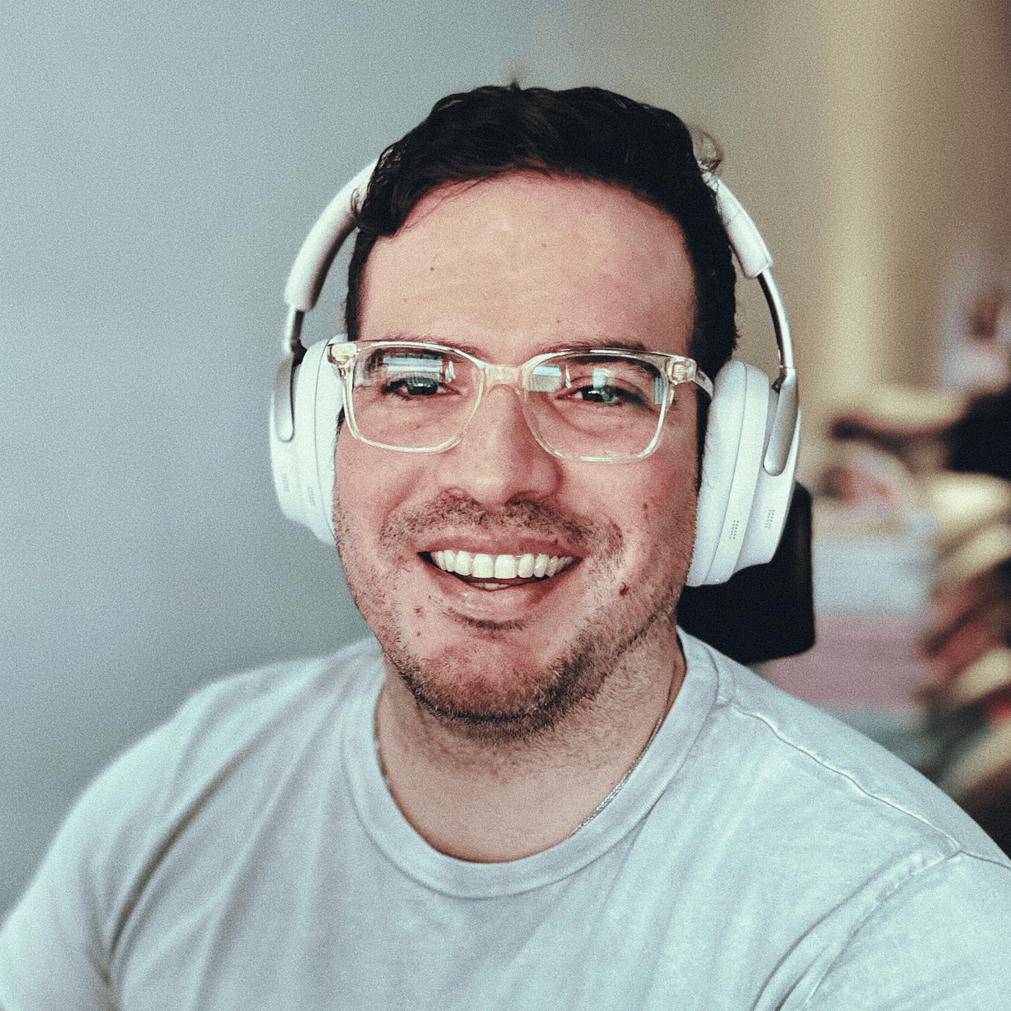
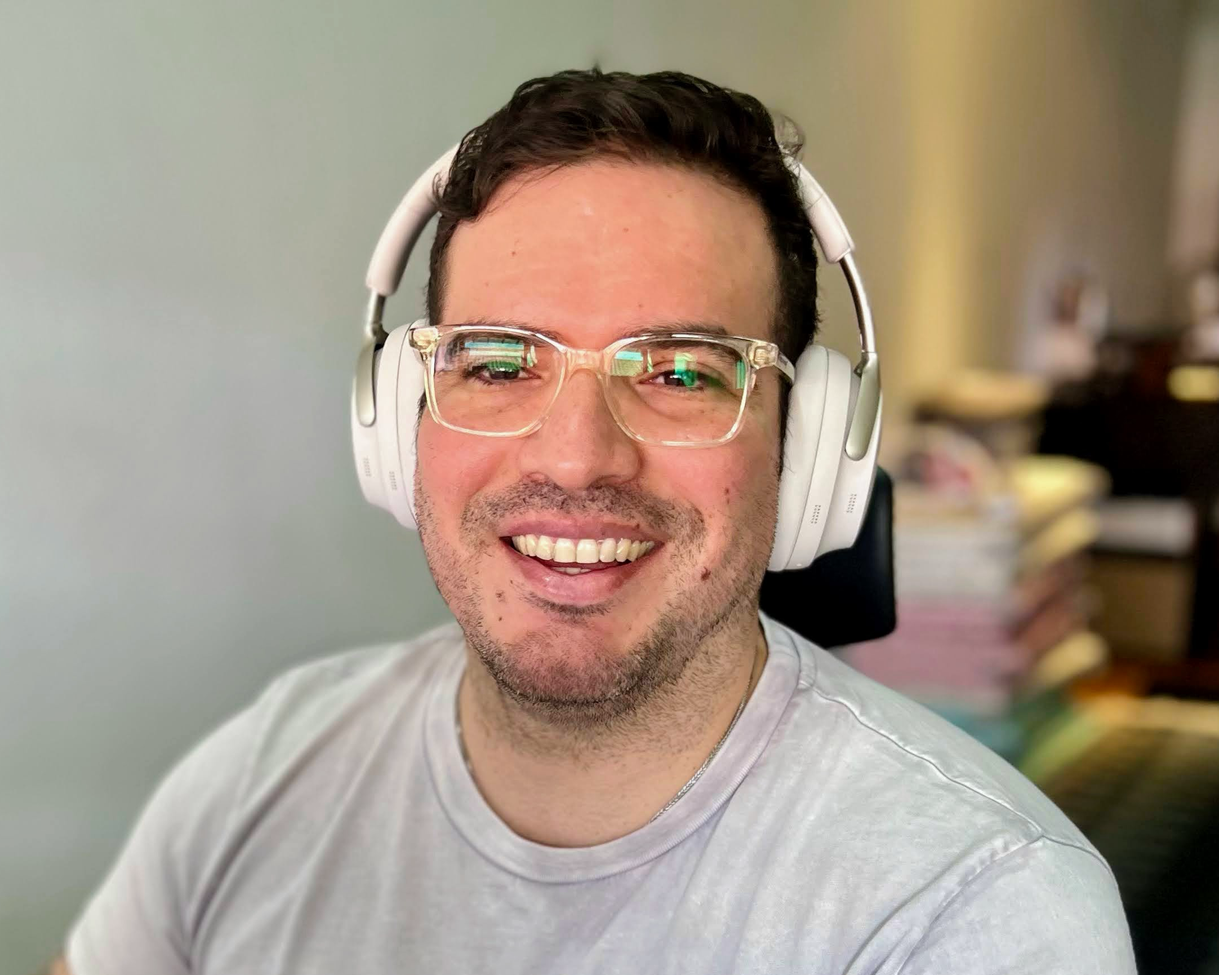
work on colours

diff --git a/web/src/partials/FooterPartial.vue b/web/src/partials/FooterPartial.vue
@@ -1,58 +1,41 @@
 <template>
-	<footer class="border-t border-slate-200 dark:border-slate-800">
-		<div class="py-8">
-			<div class="text-center md:flex md:items-center md:justify-between">
-				<!-- Social links -->
-				<ul class="inline-flex mb-4 md:order-1 md:ml-4 md:mb-0 space-x-2">
-					<li>
-						<a class="flex justify-center items-center text-sky-500 hover:text-sky-600 transition duration-150 ease-in-out" href="https://x.com/gocanto" aria-label="X">
-							<svg class="w-8 h-8 fill-current" viewBox="0 0 32 32" xmlns="http://www.w3.org/2000/svg">
-								<path d="m13.063 9 3.495 4.475L20.601 9h2.454l-5.359 5.931L24 23h-4.938l-3.866-4.893L10.771 23H8.316l5.735-6.342L8 9h5.063Zm-.74 1.347h-1.457l8.875 11.232h1.36l-8.778-11.232Z"></path>
-							</svg>
-						</a>
-					</li>
+    <footer class="border-t border-slate-200 dark:border-slate-800">
+        <div class="py-8">
+            <div class="text-center md:flex md:items-center md:justify-between">
+                <ul class="inline-flex mb-4 md:order-1 md:ml-4 md:mb-0 space-x-2">
+                    <li @click="openX()" class="blog-footer-social-li">
+                        <a @click.prevent="openX()" class="text-white" href="#" aria-label="X">
+                            <svg class="fill-current h-5 w-5" fill="currentColor" xmlns="http://www.w3.org/2000/svg" viewBox="0 0 1200 1227">
+                                <path d="M714.163 519.284 1160.89 0h-105.86L667.137 450.887 357.328 0H0l468.492 681.821L0 1226.37h105.866l409.625-476.152 327.181 476.152H1200L714.137 519.284h.026ZM569.165 687.828l-47.468-67.894-377.686-540.24h162.604l304.797 435.991 47.468 67.894 396.2 566.721H892.476L569.165 687.854v-.026Z"/>
+                            </svg>
+                        </a>
+                    </li>
 
-					<li>
-						<a class="flex justify-center items-center text-sky-500 hover:text-sky-600 transition duration-150 ease-in-out" href="https://www.youtube.com/@gocanto" aria-label="YouTube">
-							<svg class="w-8 h-8 fill-current" viewBox="0 0 32 32" xmlns="http://www.w3.org/2000/svg">
-								<path
-									d="M23.8 12.8c-.2-1.3-.8-2.2-2.2-2.4C19.4 10 16 10 16 10s-3.4 0-5.6.4c-1.4.2-2.1 1.1-2.2 2.4C8 14.1 8 16 8 16s0 1.9.2 3.2c.2 1.3.8 2.2 2.2 2.4 2.2.4 5.6.4 5.6.4s3.4 0 5.6-.4c1.4-.3 2-1.1 2.2-2.4.2-1.3.2-3.2.2-3.2s0-1.9-.2-3.2ZM14 19v-6l5 3-5 3Z"
-								></path>
-							</svg>
-						</a>
-					</li>
+                    <li @click="openGitHub()" class="blog-footer-social-li">
+                        <a @click.prevent="openGitHub" class="text-white" href="#" aria-label="Github">
+                            <svg class="fill-current h-5 w-5" fill="currentColor" viewBox="0 0 1024 1024" xmlns="http://www.w3.org/2000/svg">
+                                <path fill-rule="evenodd" clip-rule="evenodd" d="M8 0C3.58 0 0 3.58 0 8C0 11.54 2.29 14.53 5.47 15.59C5.87 15.66 6.02 15.42 6.02 15.21C6.02 15.02 6.01 14.39 6.01 13.72C4 14.09 3.48 13.23 3.32 12.78C3.23 12.55 2.84 11.84 2.5 11.65C2.22 11.5 1.82 11.13 2.49 11.12C3.12 11.11 3.57 11.7 3.72 11.94C4.44 13.15 5.59 12.81 6.05 12.6C6.12 12.08 6.33 11.73 6.56 11.53C4.78 11.33 2.92 10.64 2.92 7.58C2.92 6.71 3.23 5.99 3.74 5.43C3.66 5.23 3.38 4.41 3.82 3.31C3.82 3.31 4.49 3.1 6.02 4.13C6.66 3.95 7.34 3.86 8.02 3.86C8.7 3.86 9.38 3.95 10.02 4.13C11.55 3.09 12.22 3.31 12.22 3.31C12.66 4.41 12.38 5.23 12.3 5.43C12.81 5.99 13.12 6.7 13.12 7.58C13.12 10.65 11.25 11.33 9.47 11.53C9.76 11.78 10.01 12.26 10.01 13.01C10.01 14.08 10 14.94 10 15.21C10 15.42 10.15 15.67 10.55 15.59C13.71 14.53 16 11.53 16 8C16 3.58 12.42 0 8 0Z" transform="scale(64)"/>
+                            </svg>
+                        </a>
+                    </li>
 
-					<li>
-						<a class="flex justify-center items-center text-sky-500 hover:text-sky-600 transition duration-150 ease-in-out" href="https://github.com/gocanto" aria-label="Github">
-							<svg class="w-8 h-8 fill-current" viewBox="0 0 32 32" xmlns="http://www.w3.org/2000/svg">
-								<path
-									d="M16 8.2c-4.4 0-8 3.6-8 8 0 3.5 2.3 6.5 5.5 7.6.4.1.5-.2.5-.4V22c-2.2.5-2.7-1-2.7-1-.4-.9-.9-1.2-.9-1.2-.7-.5.1-.5.1-.5.8.1 1.2.8 1.2.8.7 1.3 1.9.9 2.3.7.1-.5.3-.9.5-1.1-1.8-.2-3.6-.9-3.6-4 0-.9.3-1.6.8-2.1-.1-.2-.4-1 .1-2.1 0 0 .7-.2 2.2.8.6-.2 1.3-.3 2-.3s1.4.1 2 .3c1.5-1 2.2-.8 2.2-.8.4 1.1.2 1.9.1 2.1.5.6.8 1.3.8 2.1 0 3.1-1.9 3.7-3.7 3.9.3.4.6.9.6 1.6v2.2c0 .2.1.5.6.4 3.2-1.1 5.5-4.1 5.5-7.6-.1-4.4-3.7-8-8.1-8z"
-								></path>
-							</svg>
-						</a>
-					</li>
+                    <li @click="openLinkedIn()" class="blog-footer-social-li">
+                        <a @click.prevent="openLinkedIn()" class="text-white" href="#" aria-label="LinkedIn">
+                            <svg class="fill-current h-5 w-5" xmlns="http://www.w3.org/2000/svg" preserveAspectRatio="xMidYMid" viewBox="0 0 256 256"><path d="M218.123 218.127h-37.931v-59.403c0-14.165-.253-32.4-19.728-32.4-19.756 0-22.779 15.434-22.779 31.369v60.43h-37.93V95.967h36.413v16.694h.51a39.907 39.907 0 0 1 35.928-19.733c38.445 0 45.533 25.288 45.533 58.186l-.016 67.013ZM56.955 79.27c-12.157.002-22.014-9.852-22.016-22.009-.002-12.157 9.851-22.014 22.008-22.016 12.157-.003 22.014 9.851 22.016 22.008A22.013 22.013 0 0 1 56.955 79.27m18.966 138.858H37.95V95.967h37.97v122.16ZM237.033.018H18.89C8.58-.098.125 8.161-.001 18.471v219.053c.122 10.315 8.576 18.582 18.89 18.474h218.144c10.336.128 18.823-8.139 18.966-18.474V18.454c-.147-10.33-8.635-18.588-18.966-18.453" fill="currentColor"/></svg>
+                        </a>
+                    </li>
+                </ul>
 
-					<li>
-						<a class="flex justify-center items-center text-sky-500 hover:text-sky-600 transition duration-150 ease-in-out" href="https://www.linkedin.com/in/gocanto/" aria-label="LinkedIn">
-							<svg class="w-8 h-10 fill-current" viewBox="0 0 32 32" xmlns="http://www.w3.org/2000/svg">
-								<path
-									d="M12.51 8.796v1.697a3.738 3.738 0 0 1 3.288-1.684c3.455 0 4.202 2.16 4.202 4.97V19.5h-3.2v-5.072c0-1.21-.244-2.766-2.128-2.766-1.827 0-2.139 1.317-2.139 2.676V19.5h-3.19V8.796h3.168ZM7.2 6.106a1.61 1.61 0 0 1-.988 1.483 1.595 1.595 0 0 1-1.743-.348A1.607 1.607 0 0 1 5.6 4.5a1.601 1.601 0 0 1 1.6 1.606Z"
-								/>
-								<path d="M7.2 8.809H4V19.5h3.2V8.809Z" />
-							</svg>
-						</a>
-					</li>
-				</ul>
-
-				<!-- Copyright -->
-				<div class="text-sm text-slate-500 dark:text-slate-400">Copyright &copy; gocanto. All rights reserved.</div>
-			</div>
-		</div>
-	</footer>
+                <div class="text-sm text-slate-500 dark:text-slate-400">Copyright &copy; gocanto. All rights reserved.</div>
+            </div>
+        </div>
+    </footer>
 </template>
 
-<script>
-export default {
-	name: 'FooterPartial',
-};
+<script setup lang="ts">
+const openSocial = (link: string): Window | null => window.open(link, '_blank');
+
+const openX = (): Window | null => openSocial('https://x.com/gocanto')
+const openGitHub = (): Window | null => openSocial('https://github.com/gocanto')
+const openLinkedIn = (): Window | null => openSocial('https://www.linkedin.com/in/gocanto/');
 </script>

diff --git a/web/src/pages/AboutPage.vue b/web/src/pages/AboutPage.vue
@@ -15,14 +15,12 @@
 							<div class="max-w-[700px]">
 								<section>
 									<!-- Page title -->
-									<h2 class="h2 font-aspekta mb-5">
+									<h1 class="h1 blog-h1">
 										Hi. I'm {{ user.profile.nickname }}
-										<span
-											class="inline-flex relative text-sky-500 before:absolute before:inset-0 before:bg-sky-200 dark:before:bg-sky-500 before:opacity-30 before:-z-10 before:-rotate-2 before:translate-y-1/4"
-										>
+										<span class="blog-fun-title-word-highlight">
 											<a :href="user.social.x.url" :title="user.social.x.title" target="_blank">{{ user.social.x.handle }}</a>
 										</span>
-									</h2>
+									</h1>
 
 									<img class="rounded-lg w-full mb-5" :src="aboutPicture" alt="About" />
 
@@ -40,14 +38,14 @@
 													in software development, workplace technology, and infrastructure management.
 												</span>
 												<span class="block mt-5">
-													I specialize in Golang, Node.js, TypeScript, and PHP. I am also proficient in Laravel, Symfony, and modern web frameworks like Next.Js. Furthermore, I have led teams
-													designing and implementing scalable, high-performance systems, ensuring reliability and efficiency across complex technical environments.
+													I specialize in Golang, Node.js, TypeScript, and PHP. I am also proficient in Laravel, Symfony, and modern web frameworks like Next.Js. Furthermore, I have led teams designing and
+													implementing scalable, high-performance systems, ensuring reliability and efficiency across complex technical environments.
 												</span>
 											</p>
 											<p class="block mb-3">
-												Beyond technical expertise, I have a strong <a class="blog-link" :href="user.social.linkedin.url" target="_blank">leadership background</a> in managing cross-functional teams,
-												optimizing workflows, and implementing best practices that drive productivity and innovation. I thrive in fast-paced environments that demand strategic thinking,
-												problem-solving, and a commitment to delivering high-quality results.
+												Beyond technical expertise, I have a strong <a class="blog-link" :href="user.social.linkedin.url" target="_blank">leadership background</a> in managing cross-functional teams, optimizing
+												workflows, and implementing best practices that drive productivity and innovation. I thrive in fast-paced environments that demand strategic thinking, problem-solving, and a commitment to
+												delivering high-quality results.
 											</p>
 										</div>
 
@@ -57,8 +55,7 @@
 											<h2 class="h3 font-aspekta text-slate-800 dark:text-slate-100">Let's Connect</h2>
 											<p>
 												I’m excited to connect by <a class="blog-link" title="follow me on x" :href="`mailto:${user.profile.email}`">email</a> or
-												<a class="blog-link" target="_blank" :href="user.social.x">X</a> to chat about projects and ideas. I’m always open to freelance or long-term projects, so please feel free to
-												reach out.
+												<a class="blog-link" target="_blank" :href="user.social.x">X</a> to chat about projects and ideas. I’m always open to freelance or long-term projects, so please feel free to reach out.
 											</p>
 											<p>Tell me about your vision, and if it seems like a good fit, we can explore collaborating down the road.</p>
 										</div>

diff --git a/web/src/partials/SideNavPartial.vue b/web/src/partials/SideNavPartial.vue
@@ -18,10 +18,10 @@
 								<a
                                     :class="
 										applyClassIf(['/about', '/subscribe', '/projects', '/resume'])
-											? 'blog-router-link-a-active'
-											: 'blog-router-link-a-resting'
+											? 'blog-side-nav-router-link-a-active'
+											: 'blog-side-nav-router-link-a-resting'
 									"
-                                    class="h6 blog-router-link-a"
+                                    class="h6 blog-side-nav-router-link-a"
 									:href="href"
 									@click="navigate"
 								>
@@ -38,7 +38,7 @@
 						<li class="py-2">
 							<router-link v-slot="{ href, navigate, isExactActive }" to="/about" custom>
 								<a
-									class="h6 blog-router-link-a"
+									class="h6 blog-side-nav-router-link-a"
 									:class="bindIconClassFor(isExactActive)"
 									:href="href"
 									@click="navigate"
@@ -56,7 +56,7 @@
 						<li class="py-2">
 							<router-link v-slot="{ href, navigate, isExactActive }" to="/projects" custom>
 								<a
-									class="h6 blog-router-link-a"
+									class="h6 blog-side-nav-router-link-a"
 									:class="bindIconClassFor(isExactActive)"
 									:href="href"
 									@click="navigate"
@@ -74,7 +74,7 @@
 						<li class="py-2">
 							<router-link v-slot="{ href, navigate, isExactActive }" to="/resume" custom>
 								<a
-									class="h6 blog-router-link-a"
+									class="h6 blog-side-nav-router-link-a"
 									:class="bindIconClassFor(isExactActive)"
 									:href="href"
 									@click="navigate"
@@ -92,7 +92,7 @@
 						<li class="py-2">
 							<router-link v-slot="{ href, navigate, isExactActive }" to="/subscribe" custom>
 								<a
-									class="h6 blog-router-link-a"
+									class="h6 blog-side-nav-router-link-a"
 									:class="bindIconClassFor(isExactActive)"
 									:href="href"
 									@click="navigate"
@@ -130,7 +130,7 @@ const isHome = computed<boolean>(() => {
 });
 
 function applyClassIf (constraint: string[]): boolean {
-    if (isHome) {
+    if (isHome.value) {
         return true;
     }
 
@@ -141,7 +141,7 @@ function applyClassIf (constraint: string[]): boolean {
 
 function bindIconClassFor (isActive: boolean): string {
     return isActive
-        ? 'blog-router-link-a-active'
-        : 'blog-router-link-a-resting';
+        ? 'blog-side-nav-router-link-a-active'
+        : 'blog-side-nav-router-link-a-resting';
 }
 </script>

diff --git a/web/src/partials/HeaderPartial.vue b/web/src/partials/HeaderPartial.vue
@@ -12,7 +12,7 @@
 								<div class="absolute inset-0 right-auto flex items-center justify-center">
 									<svg class="w-4 h-4 shrink-0 mx-3" viewBox="0 0 16 16" xmlns="http://www.w3.org/2000/svg">
 										<path
-											class="fill-indigo-400"
+											class="fill-fuchsia-400"
 											d="M7 14c-3.86 0-7-3.14-7-7s3.14-7 7-7 7 3.14 7 7-3.14 7-7 7zM7 2C4.243 2 2 4.243 2 7s2.243 5 5 5 5-2.243 5-5-2.243-5-5-5zm8.707 12.293a.999.999 0 11-1.414 1.414L11.9 13.314a8.019 8.019 0 001.414-1.414l2.393 2.393z"
 										></path>
 									</svg>
@@ -28,25 +28,20 @@
 					<label class="relative cursor-pointer p-2" for="light-switch">
 						<svg class="dark:hidden" width="16" height="16" xmlns="http://www.w3.org/2000/svg">
 							<path
-								class="fill-indigo-300"
+								class="fill-fuchsia-300 hover:fill-fuchsia-500"
 								d="M7 0h2v2H7zM12.88 1.637l1.414 1.415-1.415 1.413-1.413-1.414zM14 7h2v2h-2zM12.95 14.433l-1.414-1.413 1.413-1.415 1.415 1.414zM7 14h2v2H7zM2.98 14.364l-1.413-1.415 1.414-1.414 1.414 1.415zM0 7h2v2H0zM3.05 1.706 4.463 3.12 3.05 4.535 1.636 3.12z"
 							/>
-							<path class="fill-indigo-400" d="M8 4C5.8 4 4 5.8 4 8s1.8 4 4 4 4-1.8 4-4-1.8-4-4-4Z" />
+							<path class="fill-fuchsia-400 hover:fill-fuchsia-500" d="M8 4C5.8 4 4 5.8 4 8s1.8 4 4 4 4-1.8 4-4-1.8-4-4-4Z" />
 						</svg>
 						<svg class="hidden dark:block" width="16" height="16" xmlns="http://www.w3.org/2000/svg">
-							<path class="fill-indigo-400" d="M6.2 1C3.2 1.8 1 4.6 1 7.9 1 11.8 4.2 15 8.1 15c3.3 0 6-2.2 6.9-5.2C9.7 11.2 4.8 6.3 6.2 1Z" />
+							<path class="fill-fuchsia-400 hover:fill-fuchsia-200" d="M6.2 1C3.2 1.8 1 4.6 1 7.9 1 11.8 4.2 15 8.1 15c3.3 0 6-2.2 6.9-5.2C9.7 11.2 4.8 6.3 6.2 1Z" />
 							<path
-								class="fill-indigo-500"
+								class="fill-fuchsia-500 hover:fill-fuchsia-200"
 								d="M12.5 5a.625.625 0 0 1-.625-.625 1.252 1.252 0 0 0-1.25-1.25.625.625 0 1 1 0-1.25 1.252 1.252 0 0 0 1.25-1.25.625.625 0 1 1 1.25 0c.001.69.56 1.249 1.25 1.25a.625.625 0 1 1 0 1.25c-.69.001-1.249.56-1.25 1.25A.625.625 0 0 1 12.5 5Z"
 							/>
 						</svg>
 						<span class="sr-only">Switch to light / dark version</span>
 					</label>
-				</div>
-
-				<!-- Button -->
-				<div>
-					<router-link class="btn-sm text-indigo-100 bg-sky-500 hover:bg-sky-600" to="/subscribe">Subscribe</router-link>
 				</div>
 			</div>
 		</div>

diff --git a/web/src/css/support/blog.css b/web/src/css/support/blog.css
@@ -9,17 +9,37 @@
     @apply text-slate-700 dark:text-slate-300;
 }
 
-.blog-router-link-a {
+.blog-h1 {
+    @apply font-aspekta mb-5 mt-5;
+    @apply text-slate-700 dark:text-slate-300;
+}
+
+.blog-fun-title-word-highlight {
+    @apply inline-flex relative text-fuchsia-500 dark:text-fuchsia-400 before:absolute before:inset-0;
+    @apply before:bg-sky-200 dark:before:bg-sky-500 before:opacity-30 before:-z-10 before:-rotate-2;
+    @apply before:translate-y-1/4;
+}
+
+/* --- side nav --- */
+.blog-side-nav-router-link-a {
     @apply w-full flex items-center justify-center relative after:absolute after:w-0.5;
     @apply after:right-0 after:top-0 after:bottom-0;
 }
 
-.blog-router-link-a-resting {
-    @apply text-slate-400 hover:text-indigo-500;
-    @apply dark:text-slate-500 dark:hover:text-indigo-500;
+.blog-side-nav-router-link-a-resting {
+    @apply text-slate-400 hover:text-fuchsia-500;
+    @apply dark:text-slate-500 dark:hover:text-fuchsia-500;
 }
 
-.blog-router-link-a-active {
-    @apply text-indigo-500 after:bg-indigo-500 hover:text-indigo-400 hover:after:bg-indigo-400;
+.blog-side-nav-router-link-a-active {
+    @apply text-fuchsia-500 after:bg-fuchsia-500 hover:text-fuchsia-400 hover:after:bg-fuchsia-400;
     @apply dark:hover:text-slate-400;
+}
+
+/* --- footer --- */
+.blog-footer-social-li {
+    @apply flex justify-center items-center h-10 w-10 bg-gray-400 border border-gray-400 rounded-md;
+    @apply transition duration-150 ease-in-out hover:bg-fuchsia-400 hover:border-fuchsia-400 cursor-pointer;
+    @apply dark:bg-linear-to-t dark:bg-slate-900 dark:border-slate-800 dark:from-slate-800 dark:to-slate-800/30;
+    @apply dark:hover:bg-linear-to-b;
 }

diff --git a/web/src/css/style.css b/web/src/css/style.css
@@ -73,4 +73,16 @@
 	--tracking-wide: 0.01em;
 	--tracking-wider: 0.02em;
 	--tracking-widest: 0.4em;
+
+    --color-fuchsia-50: oklch(0.977 0.017 320.058);
+    --color-fuchsia-100: oklch(0.952 0.037 318.852);
+    --color-fuchsia-200: oklch(0.903 0.076 319.62);
+    --color-fuchsia-300: oklch(0.833 0.145 321.434);
+    --color-fuchsia-400: oklch(0.74 0.238 322.16);
+    --color-fuchsia-500: oklch(0.667 0.295 322.15);
+    --color-fuchsia-600: oklch(0.591 0.293 322.896);
+    --color-fuchsia-700: oklch(0.518 0.253 323.949);
+    --color-fuchsia-800: oklch(0.452 0.211 324.591);
+    --color-fuchsia-900: oklch(0.401 0.17 325.612);
+    --color-fuchsia-950: oklch(0.293 0.136 325.661);
 }

diff --git a/web/src/partials/WidgetNewsletterPartial.vue b/web/src/partials/WidgetNewsletterPartial.vue
@@ -1,5 +1,5 @@
 <template>
-	<div class="rounded-lg border border-slate-200 dark:border-slate-800 dark:bg-linear-to-t dark:from-slate-800 dark:to-slate-800/30 odd:rotate-1 even:-rotate-1 p-5">
+	<div class="rounded-lg border border-slate-200 dark:border-slate-800 dark:bg-linear-to-t dark:from-slate-800 dark:to-slate-800/30 p-5">
 		<div class="text-center mb-1">
 			<div class="inline-flex -space-x-3 -ml-0.5">
 				<img class="rounded-full border-2 border-white dark:border-slate-800 box-content" src="../images/avatar-01.jpg" width="24" height="24" alt="Avatar 01" />

diff --git a/web/src/partials/HeroPartial.vue b/web/src/partials/HeroPartial.vue
@@ -5,7 +5,7 @@
 				<AvatarPartial width="w-14" />
 				<h1 class="h1 blog-h1">
 					I write about coding, engineering, and
-					<span class="inline-flex relative text-indigo-500 dark:text-indigo-400 before:absolute before:inset-0 before:bg-sky-200 dark:before:bg-sky-500 before:opacity-30 before:-z-10 before:-rotate-2 before:translate-y-1/4"
+					<span class="blog-fun-title-word-highlight"
 						>leadership</span
 					>
 					as a service.

diff --git a/web/src/partials/AvatarPartial.vue b/web/src/partials/AvatarPartial.vue
@@ -3,7 +3,7 @@
 </template>
 
 <script>
-import photo from '@images/profile/me.png';
+import photo from '@images/profile/me.jpg';
 
 export default {
 	name: 'AvatarPartial',
@@ -26,7 +26,7 @@ export default {
 	},
 	computed: {
 		className() {
-			return `border-2 border-indigo-400 rounded-full ${this.width}`;
+			return `border-2 border-fuchsia-400 rounded-full ${this.width}`;
 		},
 	},
 };

diff --git a/web/src/css/support/utility-patterns.css b/web/src/css/support/utility-patterns.css
@@ -40,6 +40,10 @@
 }
 
 .btn-sm {
+	@apply px-3 py-1.5 text-indigo-100 bg-indigo-500 hover:bg-indigo-600;
+}
+
+.btn-sm {
 	@apply px-3 py-1.5;
 }
 
